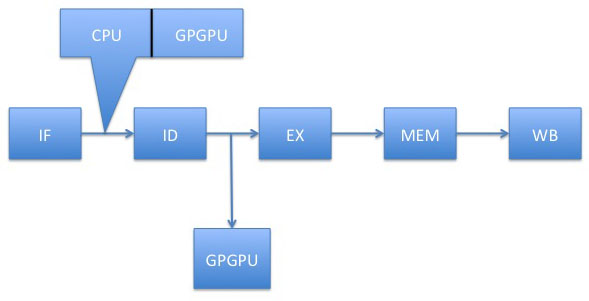
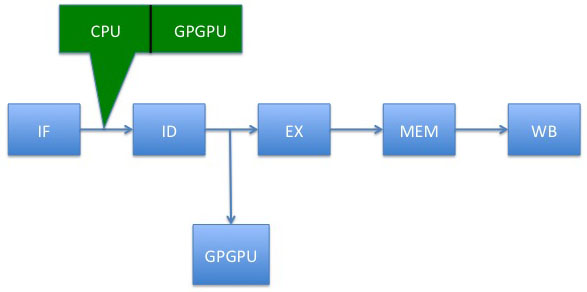
Added sections, new graphics other changes --kkd

diff --git a/paper/sections/gpgpudifferences.tex b/paper/sections/gpgpudifferences.tex
@@ -29,7 +29,7 @@ GPGPU architecture varies from a general purpose CPU architecture in two main wa
 
 Recall that in a SIMD (Single Instruction Multiple Data) architecture, all concurrently executing threads (also known as wavefronts) must move through the GPGPU in lock-step. Therefore, the ideal situation for these wavefronts (groups of threads representing divided work) would be to move through the code with no conditional branches allowing unabated forward progress through the program and correctly executing instructions for each work item (data set) in parallel. 
 
-However, this is almost never the case. Modern mature programs almost always include control flow branches in the code. With that being said, it is entirely possible for threads in the wavefront to encounter data items that cause the code to make the jump, while the rest of the threads do not. Predictably, this causes problems when threads are expected to execute in lock step. This is known as "branch divergence" and is currently solved with the addition of a hardware component that monitors the running threads. This SIMT stack monitor watches threads executing and disables threads making an uncharacteristic jump. It tracks the current program counter and the RPC (re-convergence program counter), which is the closest point in the code at which the inactive and active threads will rejoin. 
+However, this is almost never the case. Modern mature programs almost always include control flow branches in the code. With that being said, it is entirely possible for threads in the wavefront to encounter data items that cause the code to make the jump, while the rest of the threads do not. Predictably, this causes problems when threads are expected to execute in lock step. This is known as "branch divergence" and is currently solved with the addition of a hardware component that monitors the running threads. This SIMT stack monitor watches threads executing and disables threads making an uncharacteristic jump. It tracks the current program counter and the RPC (re-convergence program counter), which is the closest point in the code at which the inactive and active threads will rejoin. \cite{memcached, gpuarch}
 
 This does not cause the threads that made the jump to miss out on any execution. As soon as the active threads finish executing their code the converge and the inactive threads continue execution. The main difference here is that on a CPU, if threads on executing on different cores diverge, they can all continue execution on their own paths. Each core can be at a vastly different place in the program but still actively executing code. However, the GPGPU runs like a train, and must sequentially walk through the entire program, so divergent threads, rather than executing in different places, inactivate for the points in the code they do not execute. \cite{memcached}
 
@@ -41,7 +41,7 @@ The differences in memory access can be divided into two sections: main memory a
 \subsubsection*{Main Memory Management}
 \addcontentsline{toc}{subsubsection}{Main Memory Management}
 
-Another major considerations for programs running on a GPGPU is memory access. A GPGPU can run thousands of threads simultaneously. If the currently executed instruction on the GPGPU is a memory access instruction (like a load or store), then each thread will generate a memory access request. If this memory request happens to be for a different address then the GPGPU will have to handle these requests individually. However, if the program was designed with the GPGPU in mind and high amounts of data locality amongst threads in the wavefront is achieved, then the GPGPU can optimize this request itself and consolidate the memory requests into a single request.
+Another major considerations for programs running on a GPGPU is memory access. A GPGPU can run thousands of threads simultaneously. If the currently executed instruction on the GPGPU is a memory access instruction (like a load or store), then each thread will generate a memory access request. If this memory request happens to be for a different address then the GPGPU will have to handle these requests individually. However, if the program was designed with the GPGPU in mind and high amounts of data locality amongst threads in the wavefront is achieved, then the GPGPU can optimize this request itself and consolidate the memory requests into a single request. \cite{memcached, tlpcache}
 
 This is not something normally thought about when writing general programs for a CPU. Since most consumer CPU's can run between 8 and 12 threads at once, if they generate memory requests the overall performance impact is not a big deal. However, the scale of the GPGPU can make this into a big problem. \cite{memcached}
 
@@ -55,7 +55,7 @@ Another point to mention regarding memory access is the cache management. While 
 
 It seems like combining a CPU and GPGPU is a large challenge because of the fundamental differences between the two pieces of hardware. However, because of the massive gains in performance that a GPGPU has over the equivalent CPU SIMD instruction set (Intel SEE, for example), there are huge gains to be had from successfully combining them. 
 
-
+The key in making the heterogenous architecture successful is remembering that an ideal heterogenous architecture will support the GPGPU core as an individual processing unit much like an additional CPU core. Therefore, the control flow differences become a lesser problem because the CPU will be waiting for the GPGPU to finish, but does not need to be tied to its lock step computation. This will allow the GPGPU to act much like a thread would under a standard processor, dispatching work to it, and waiting for the result. 
 
 
 

diff --git a/paper/sections/thegpgpu.tex b/paper/sections/thegpgpu.tex
@@ -5,9 +5,9 @@ Graphics Processing Units (GPUs) gained popularity during the mid-1990s. As comp
 
 This style of computation became known as \textbf{S}ingle \textbf{I}nstruction \textbf{M}ultiple \textbf{D}ata (SIMD). The key observation being that each individual operation could be done on each data set in parallel. However, the programability of these operations was limited, initially not extending past transformation and lighting (hardware T$\&L$). 
 
-The evolution of the programmable GPU can be traced with the evolution of Direct3D (commonly known as Microsoft's DirectX). With each evolution in the API, more flexibility was added to the GPU itself. \ref{tab:gpuevolution}
-
-As shown in Table 1, the amount of control a programmer had over the GPU grew with each new iteration of DirectX. In fact, by DirectX 10 with the advent of the unified shader, it was theoretically possible to use the GPU as a floating-point coprocessor. A great example of this feature begin picked up is the work done at PhysX. While initially an additional expansion card for computing physics, PhysX integrated with GPGPUs capable of DirectX 10. They improved the realism of games by providing a realtime physics environment. It was at this point, researches started to notice that other computational problems outside of drawing the screen would greatly benefit from the GPUs style of computation. This revelation would change GPU design, even changing its name to the \textbf{G}eneral \textbf{P}urpose graphics processing unit (GPGPU). \cite{emergingtech}
+The evolution of the programmable GPU can be traced with the evolution of Direct3D (commonly known as Microsoft's DirectX). With each evolution in the API, more flexibility was added to the GPU itself. 
+ 
+As shown in Table \ref{tab:gpuevolution}, the amount of control a programmer had over the GPU grew with each new iteration of DirectX. In fact, by DirectX 10 with the advent of the unified shader, it was theoretically possible to use the GPU as a floating-point coprocessor. A great example of this feature begin picked up is the work done at PhysX. While initially an additional expansion card for computing physics, PhysX integrated with GPGPUs capable of DirectX 10. They improved the realism of games by providing a realtime physics environment. It was at this point, researches started to notice that other computational problems outside of drawing the screen would greatly benefit from the GPUs style of computation. This revelation would change GPU design, even changing its name to the \textbf{G}eneral \textbf{P}urpose graphics processing unit (GPGPU). \cite{emergingtech}
 
 \begin{table}
 	\begin{tabular}{|c|c|}
@@ -37,6 +37,17 @@ Another advantage that the GPU had was its massive number of cores and possible 
 The unified shader represented a more general approach to the CPU, freeing programmers from writing their GPGPU programs using the terms of a graphics program. This created an opportunity for GPGPU hardware and programming models to be defined centered around general purpose programming. NVIDIA's Compute Unified Device Architecture (CUDA) was one of the first, allowing programmers to write in a C-like language. 
 
 The ability to write programs in a C-like general language rather than a specialized shader language (that required the programmer to write everything in terms of graphics nomenclature), combined with the increasingly general aspects of the GPU meant that the industry could start porting applications and attempting to figure out what works well on a GPGPU. 
+
+\section*{Anatomy of the GPGPU}
+\addcontentsline{toc}{section}{Anatomy of the GPGPU}
+
+From the top, the GPGPU is made up of several graphics processor clusters (the names vary by manufacturer, but the concept remains the same, this paper standardizes on the Nvidia terminology). The graphics processor clusters contain several streaming multiprocessors which are further divided down into individual cores. The threads are controlled by a threading engine which dispatches threads down through the streaming multiprocessors. \cite{gpuarch}
+
+The GPGPU's cache hierarchy contains a level 1 cache per core with a large level 2 cache shared amongst the graphics processing clusters. The level 1 cache is "used for register spilling, for stack operations, or to improve efficiency of global load and store operations." \cite{gpuarch} The interesting point about the level 2 cache is that in the case of the Nvidia Fermi (GF100) architecture, it contains 2 separate level 2 caches. The first is the standard read/write cache with a write-back replacement policy. The second is a read only for storing texture information for the graphics processor. \cite{gpuarch} 
+
+Typically the GPGPU will contain several memory controllers. In the case of the GF100, it contains six. These are used to support the massive amount of threads and different hardware engines the GPGPU supports. These engines are specialized hardware to support complicated operations (PolyMorph and tessellation, for example). 
+
+The entire anatomy of the GPGPU is built around supporting the massive amount of parallelism that it supplies to the computing system
 
 \section*{Unleashing the power of the GPGPU}
 \addcontentsline{toc}{section}{Unleashing the power of the GPGPU}

diff --git a/paper/sections/introduction.tex b/paper/sections/introduction.tex
@@ -2,7 +2,7 @@ A fundamental shift is occurring, beginning with the advent of the General Purpo
 
 This shift comes with its own history spawning from GUI creators trying to solve their own unique problem to big data researchers realizing the similarities their problems have. As the GPU evolved, its creators were inadvertently (or perhaps, intentionally) creating another general purpose processing unit that put the much more complicated CPU to shame on certain classes of problems. 
 
-Merging the GPGPU into the CPU and creating a heterogenous architecture solves a performance problem as well as a power problem. Computers have advanced in performance much faster than the advancements in cooling. This is resulting in a condition called the power wall. One of the largest users of energy and heat in a system is a high performance graphics card. The card itself can be thought of as a small computer complete with a computing core and huge amounts of memory. Moving the GPGPU onto the CPU chip will eliminate the extra energy and help integrate it into the cooling infrastructure of the CPU. It will also allow the GPGPU to utilize the memory already included in the system reducing power and cooling as well. This will also help eliminate duplicate entries in the cache that need to be transferred down to the GPGPU.
+Merging the GPGPU into the CPU and creating a heterogenous architecture solves a performance problem as well as a power problem. Computers have advanced in performance much faster than the advancements in cooling. This is resulting in a condition called the power wall. One of the largest users of energy and heat in a system is a high performance graphics card. The card itself can be thought of as a small computer complete with a computing core and huge amounts of memory. Moving the GPGPU onto the CPU chip will eliminate the extra energy and help integrate it into the cooling infrastructure of the CPU. It will also allow the GPGPU to utilize the memory already included in the system reducing power and cooling as well. This will also help eliminate duplicate entries in the cache that need to be transferred down to the GPGPU. \cite{nvidia}
 
 This shift does not come without its own unique challenges. The GPGPU's single instruction multiple data (SIMD) class of computing differs wildly from the CPU's single instruction single data (SISD) class. This paper found that the differences can be classified into the following aspects: Control Flow, Memory Access, and Data Transfer. This paper will analyze all three differences, and synthesize a solution to one of the major problems hampering the merge.
 

diff --git a/paper/sections/merge.tex b/paper/sections/merge.tex
@@ -12,7 +12,7 @@ Finally, the merge could bring great benefits to the programmer. Currently, whil
 \section*{The Status Quo}
 \addcontentsline{toc}{section}{The Status Quo}
 
-Work has already begun in the space. Intel's Sandy Bridge architecture moved the GPGPU form the north-bridge onto the CPU chip itself.\cite{tlpcache} This may have been for either cost saving reasons or for performance, but this represented a step in the march towards a heterogeneous architecture. Their fusion placed the GPGPU onto the die sharing a L3 cache and main memory. It however, is not, integrated into the CPU itself (as a heterogeneous architecture would be). Therefore, while the GPGPU and CPU have been integrated into the same chip, the programmer still writes code in the same way as before. In this model, the CPU will act as leader sending instructions, data, and code down to the GPGPU. 
+Work has already begun in the space. Intel's Sandy Bridge \cite{tlpcache} and AMD's Fusion \cite{cpuassist} architectures moved the GPGPU form the north-bridge onto the CPU chip itself.\cite{tlpcache} This may have been for either cost saving reasons or for performance, but this represented a step in the march towards a heterogeneous architecture. Their fusion placed the GPGPU onto the die sharing a L3 cache and main memory. It however, is not, integrated into the CPU itself (as a heterogeneous architecture would be). Therefore, while the GPGPU and CPU have been integrated into the same chip, the programmer still writes code in the same way as before. In this model, the CPU will act as leader sending instructions, data, and code down to the GPGPU. 
 
 Even still, this move is interesting because it pronounces some of the architecture questions around the integration between the CPU and the GPGPU. For one, how is the instruction set going to change? Will the CPU act as a leader dispatching instructions or will the compiler need to generate code specifically for the GPGPU core? For a completely efficient and effective heterogeneous architecture, the CPU cannot be expected to constantly lead the GPGPUs operations. That would force a bottleneck onto the CPU and require additional work on the CPU to determine what to send to the GPGPU. 
 

diff --git a/paper/paper.tex b/paper/paper.tex
@@ -72,7 +72,7 @@
 \addcontentsline{toc}{chapter}{Conclusion}
 \input{sections/conclusion}
 
-\nocite{nvidia, mapreduce, cpuassist}
+\nocite{mapreduce}
 
 %\newpage
 
